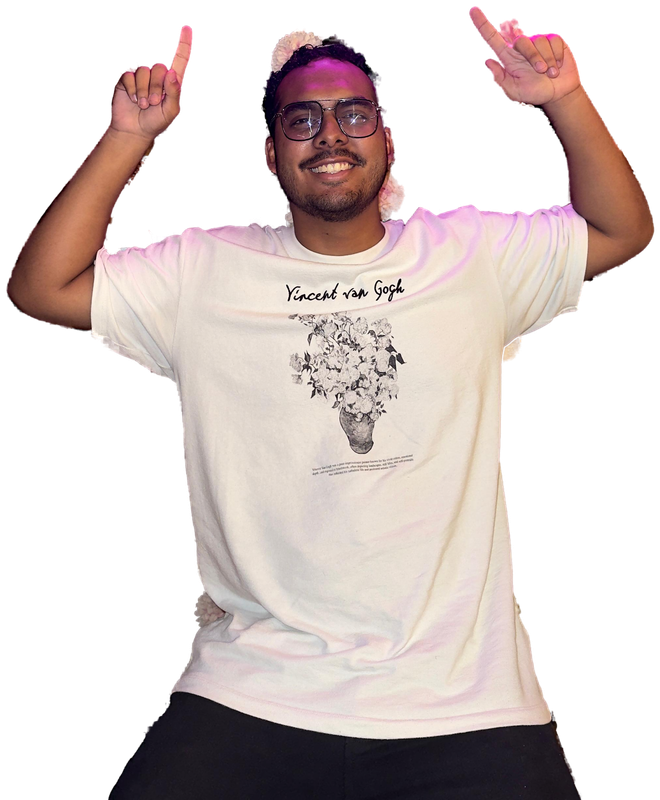
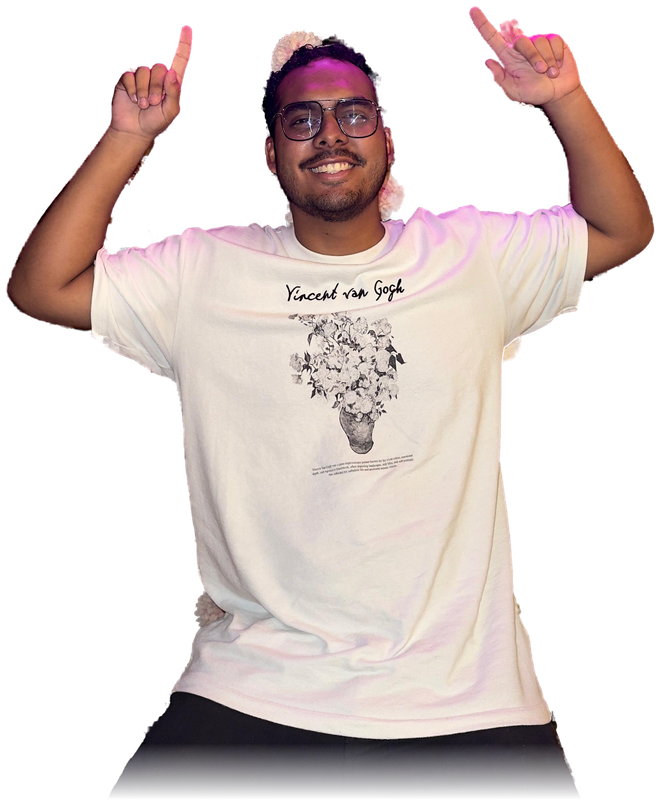
fix(about): redistribuye el cluster y funde los recortes rectos del neón
- linkedin crece (36% -> 44%) y los dos de abajo se corren a la derecha;
  mapa de caras re-verificado tras el ajuste
- Los PNG neón de linkedin y vangogh terminaban en cortes rectos de foto
  (torso/brazos al borde del lienzo) que dibujaban un rectángulo fantasma
  sobre el grid en modo oscuro; se hornea un desvanecido de alfa en los
  bordes recortados (detectados por cobertura opaca por borde)

Changed region(s): [[0.1515, 0.9375, 0.8788, 1.0]]

diff --git a/src/components/sections/About/StickerCluster.tsx b/src/components/sections/About/StickerCluster.tsx
@@ -16,8 +16,8 @@ import { useI18n } from "@/components/providers/language-provider";
  * The composition leans on colombia's flag as overlap real estate: meditando
  * sits right on top of it, vangogh clips its upper corner, linkedin rides
  * over meditando's leg. Face-safety map (container coords, at rest):
- * colombia x68-90/y4-21, vangogh x16-29/y3-14, meditando x36-45/y48-57,
- * linkedin x3-21/y42-55 - nothing in front of a face covers it. If you
+ * colombia x68-90/y4-21, vangogh x16-29/y3-14, meditando x48-57/y50-59,
+ * linkedin x13-35/y40-56 - nothing in front of a face covers it. If you
  * retune positions, re-check that rule before shipping.
  */
 const STICKERS = [
@@ -41,7 +41,7 @@ const STICKERS = [
     alt: "Sebastian meditating cross-legged in a lotus pose, smiling",
     altES: "Sebastián meditando con las piernas cruzadas en pose de loto, sonriendo",
     neon: "#22d3ee",
-    layout: { left: "10%", top: "46%", width: "68%", rot: "4deg", z: 20, tilt: 5.5, stagger: "60ms" },
+    layout: { left: "22%", top: "48%", width: "68%", rot: "4deg", z: 20, tilt: 5.5, stagger: "60ms" },
   },
   {
     id: "vangogh",
@@ -63,7 +63,7 @@ const STICKERS = [
     alt: "Studio portrait of Sebastian smiling",
     altES: "Retrato de estudio de Sebastián sonriendo",
     neon: "#a78bfa",
-    layout: { left: "-6%", top: "40%", width: "36%", rot: "-6deg", z: 40, tilt: 9, stagger: "180ms" },
+    layout: { left: "2%", top: "38%", width: "44%", rot: "-6deg", z: 40, tilt: 9, stagger: "180ms" },
   },
 ];
 